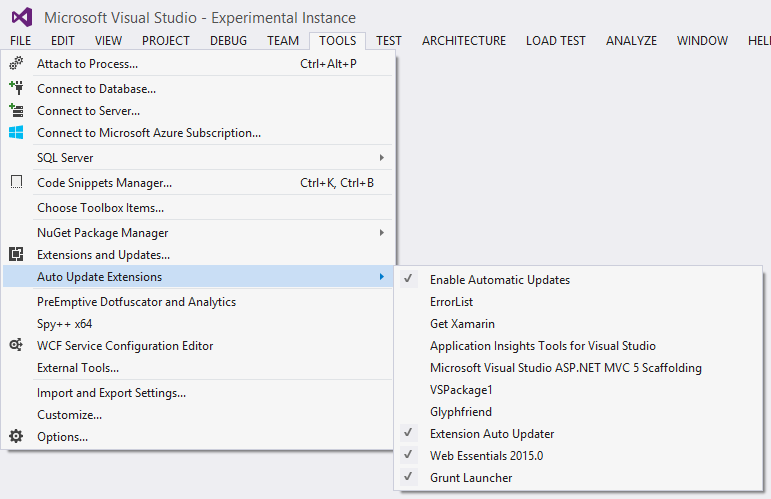
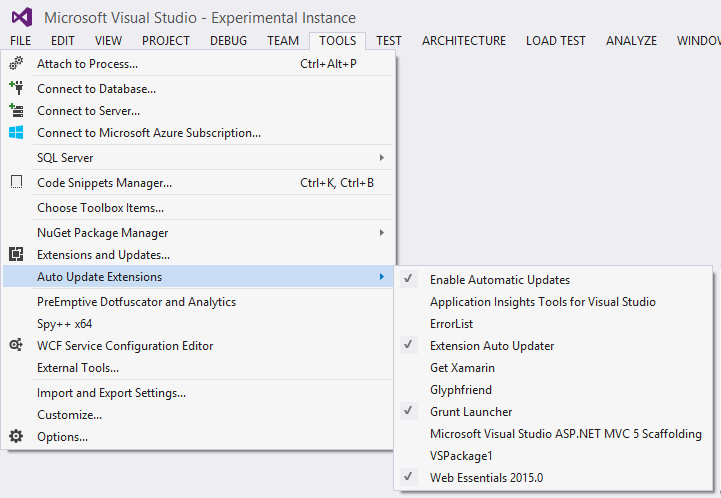
Alphabetically sort the buttons

diff --git a/src/Commands.cs b/src/Commands.cs
@@ -1,4 +1,5 @@
 using Microsoft.VisualStudio.ExtensionManager;
+using System.Linq;
 using Microsoft.VisualStudio.Shell;
 using System;
 using System.ComponentModel.Design;
@@ -48,7 +49,7 @@ namespace MadsKristensen.ExtensionUpdater
 
             int num = 0;
 
-            foreach (var extension in _manager.GetInstalledExtensions())
+            foreach (var extension in _manager.GetInstalledExtensions().OrderBy(e => e.Header.Name))
             {
                 if (extension.Header.SystemComponent || extension.Header.AllUsers || extension.Header.InstalledByMsi)
                     continue;
